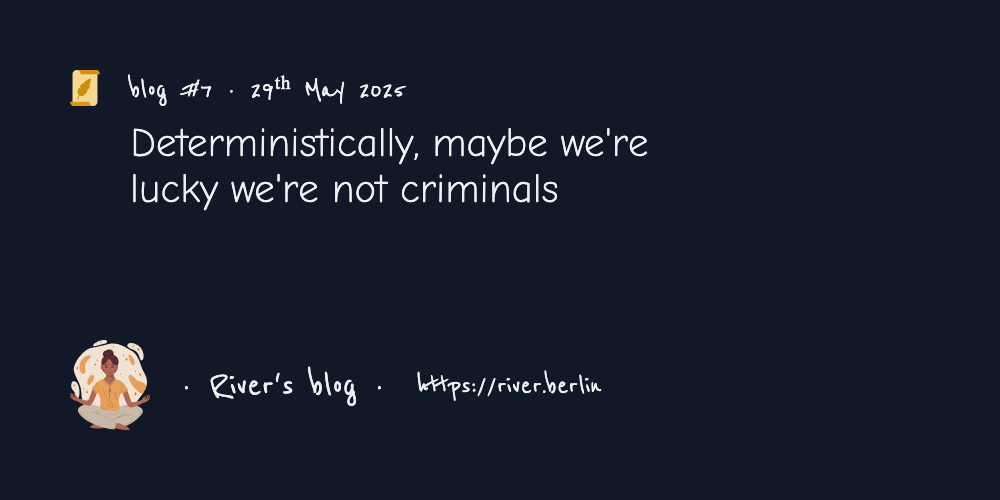
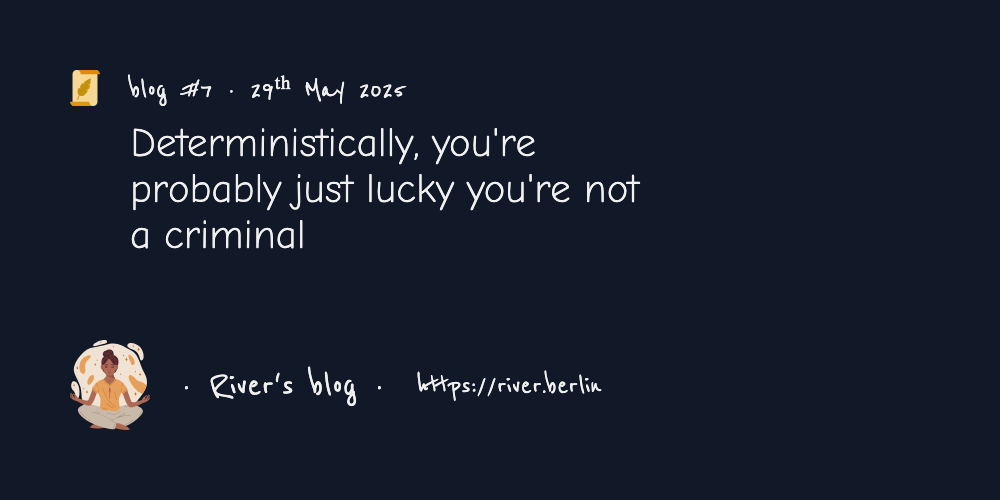
rewrite title to be more accurate

Changed region(s): [[0.124, 0.36, 0.651, 0.42], [0.434, 0.27, 0.651, 0.33], [0.124, 0.45, 0.31, 0.51]]

diff --git a/blog/blog-7/content.md b/blog/blog-7/content.md
@@ -2,14 +2,12 @@
 shortSummary: maybe we should be much kinder to each other then
 author: River / Aditya Shankar
 dated: 2025-05-29
-title: Deterministically, maybe we're lucky we're not criminals
+title: Deterministically, you're probably just lucky you're not a criminal
 icon: icon.jpg
 url: deterministim-crime-and-empathy
 ---
 
-## Deterministically, maybe we're lucky we're not criminals
-
-and maybe so we can be so much kinder
+## Deterministically, you're probably just lucky you're not a criminal
 
 ### Some good news
 
